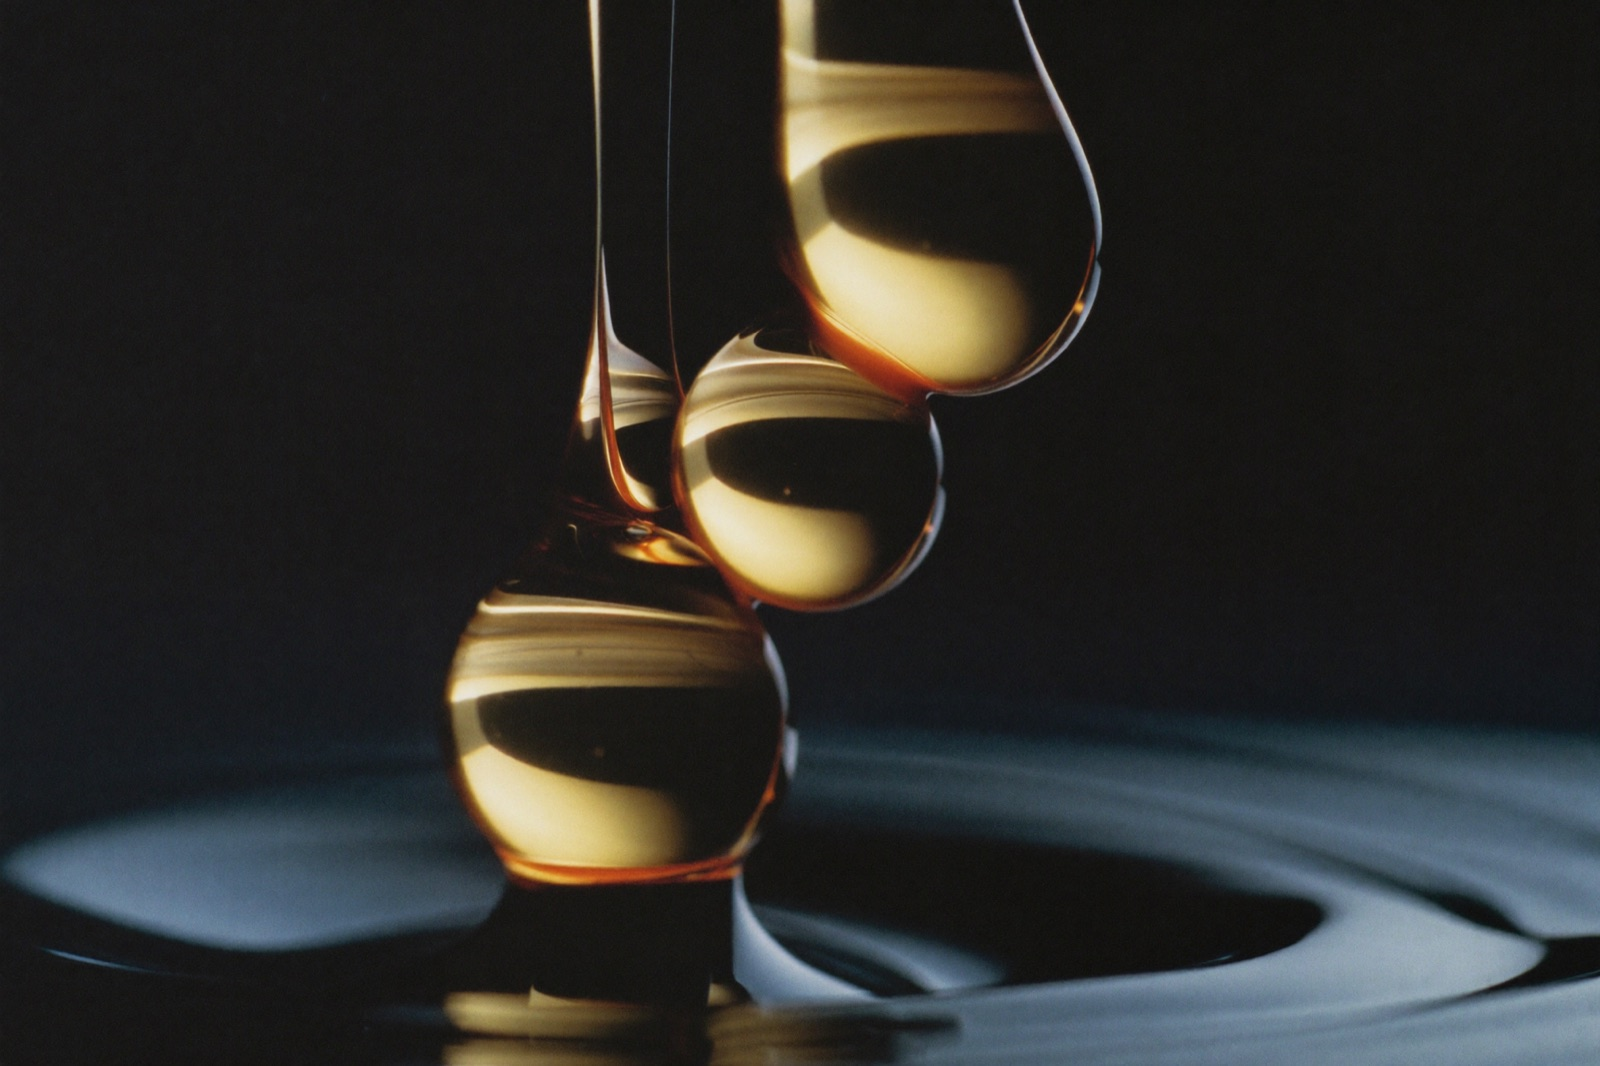
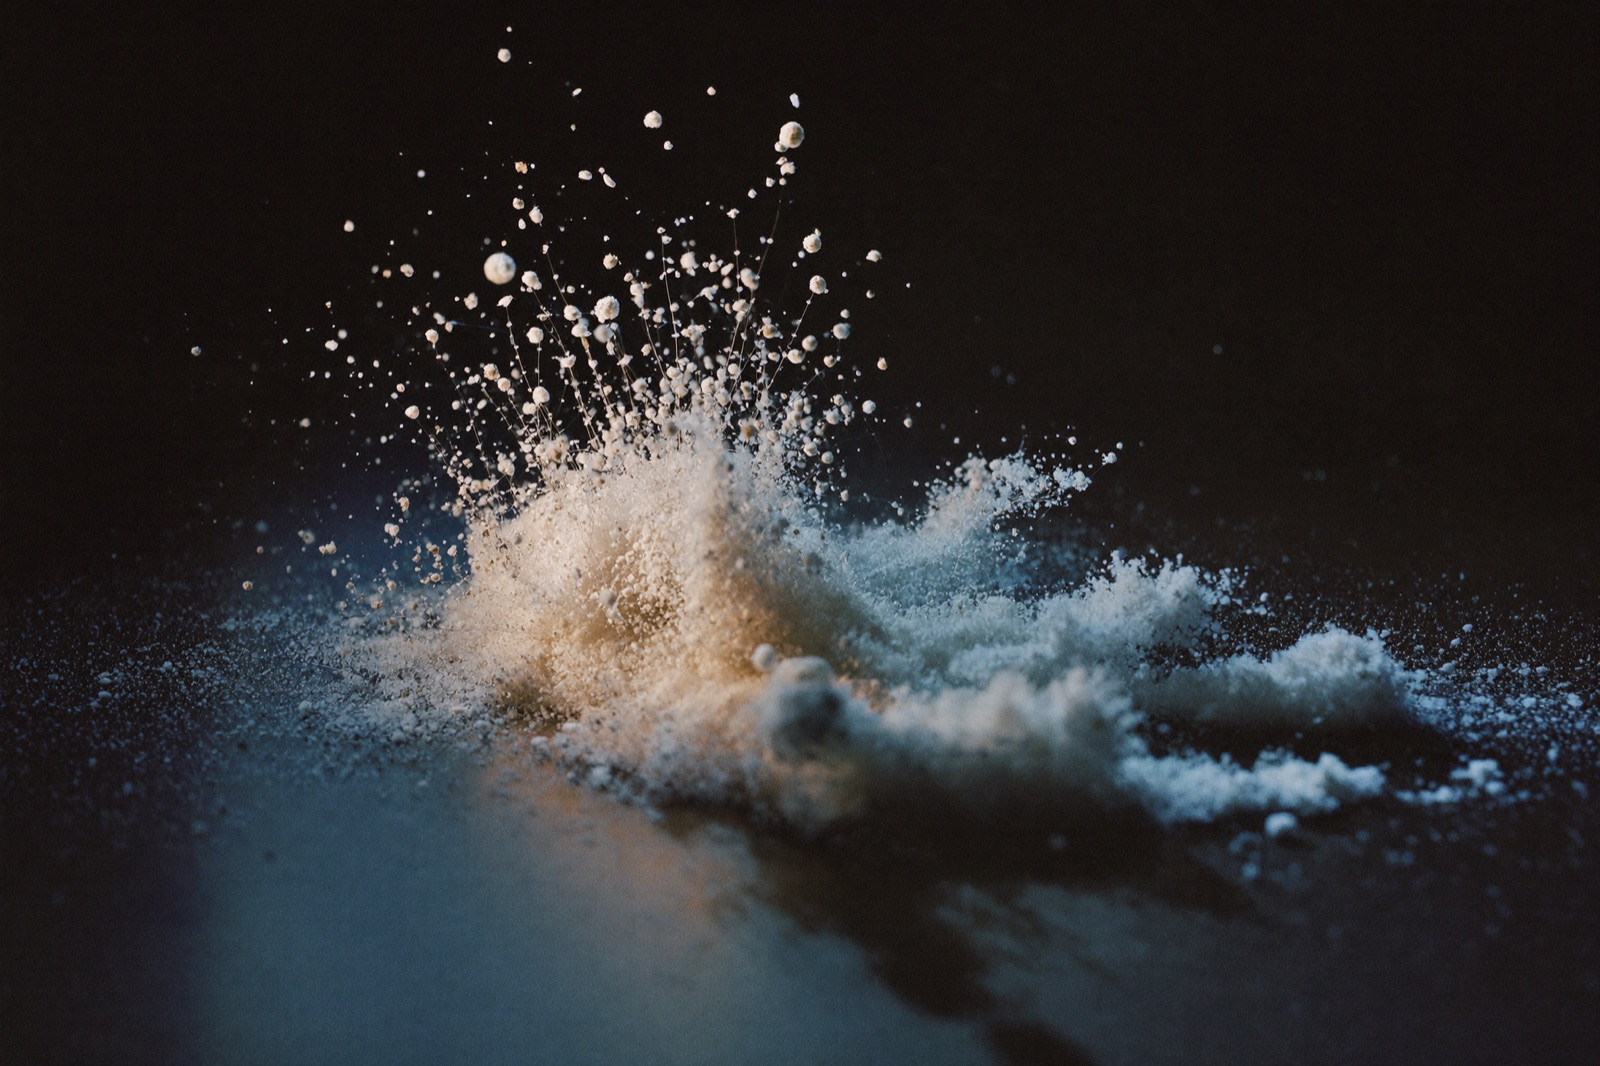
Protocol grid: all nine textures generated, no stock left
Higgsfield Soul 2.0 macro textures for every pathway (weight, sexual,
recovery, longevity, skin, hair, bloods, performance) replace the
temporary stock and duplicate fallbacks. Adds a hero texture for later use.

diff --git a/components/ProtocolGrid.tsx b/components/ProtocolGrid.tsx
@@ -38,14 +38,14 @@ export type Protocol = {
 
 export const PROTOCOLS: Protocol[] = [
   { id: 'hormone',     col: 1, code: 'APX-01', label: 'Hormone Optimisation',       sub: 'Energy · Drive · Recovery',          href: '/programs/hormone-optimisation',  image: '/protocols/hormone.jpg',     swatch: '#c9962a', tag: 'Most chosen' },
-  { id: 'weight',      col: 2, code: 'APX-02', label: 'Medical Weight Loss',        sub: 'Doctor-led metabolic reset',         href: '/programs/metabolic-weight-loss', image: 'https://images.unsplash.com/photo-1534438327276-14e5300c3a48?auto=format&fit=crop&w=1200&q=85' /* TODO swap for /protocols/weight.jpg once generated */,      swatch: '#3b82f6' },
-  { id: 'sexual',      col: 3, code: 'APX-03', label: 'Sexual Health',              sub: 'Private · Confidential · Discreet',  href: '/programs/sexual-health',         image: 'https://images.unsplash.com/photo-1633167606207-d840b5070fc2?auto=format&fit=crop&w=1200&q=85' /* TODO swap for /protocols/sexual.jpg once generated */,      swatch: '#9f1239' },
-  { id: 'recovery',    col: 1, code: 'APX-04', label: 'Recovery and Injury Repair', sub: 'Performance · Rehab · Mobility',     href: '/programs/injury-repair',         image: 'https://images.unsplash.com/photo-1590487988256-9ed24133863e?auto=format&fit=crop&w=1200&q=85' /* TODO swap for /protocols/recovery.jpg once generated */,    swatch: '#475569' },
-  { id: 'longevity',   col: 2, code: 'APX-05', label: 'Anti-Ageing and Longevity',  sub: 'Healthspan · Vitality · Prevention', href: '/programs/longevity',             image: 'https://images.unsplash.com/photo-1677212004257-103cfa6b59d0?auto=format&fit=crop&w=1200&q=85' /* TODO swap for /protocols/longevity.jpg once generated */,   swatch: '#8b5cf6', tag: 'New' },
-  { id: 'skin',        col: 3, code: 'APX-06', label: 'Skin Regeneration',          sub: 'Cortisol · DHEA-S · Inflammation',   href: '/programs/skin-regeneration',     image: 'https://images.unsplash.com/photo-1781178339148-d6ac1edb7b8f?auto=format&fit=crop&w=1200&q=85' /* TODO swap for /protocols/skin.jpg once generated */,        swatch: '#d4a5a5' },
-  { id: 'hair',        col: 3, code: 'APX-07', label: 'Hair Restoration',           sub: 'DHT · SHBG · Ferritin · Thyroid',    href: '/programs/hair-restoration',      image: '/img-hair-restoration.png' /* TODO swap for /protocols/hair.jpg once generated */,        swatch: '#0f766e' },
-  { id: 'performance', col: 1, code: 'APX-08', label: 'Performance Plus',           sub: 'Output · Recovery · Composition',    href: '/programs/performance-plus',      image: '/protocols/performance.jpg' /* TODO temporary: hormone variant 2 until the performance texture is generated */, swatch: '#e2e8f0' },
-  { id: 'bloods',      col: 2, code: 'APX-09', label: 'Comprehensive Blood Tests',  sub: 'Full panel · Doctor reviewed',       href: '/programs/pathology',             image: 'https://images.unsplash.com/photo-1570917013020-a6966d3ee863?auto=format&fit=crop&w=1200&q=85' /* TODO swap for /protocols/bloods.jpg once generated */,      swatch: '#b91c1c' },
+  { id: 'weight',      col: 2, code: 'APX-02', label: 'Medical Weight Loss',        sub: 'Doctor-led metabolic reset',         href: '/programs/metabolic-weight-loss', image: '/protocols/weight.jpg',      swatch: '#3b82f6' },
+  { id: 'sexual',      col: 3, code: 'APX-03', label: 'Sexual Health',              sub: 'Private · Confidential · Discreet',  href: '/programs/sexual-health',         image: '/protocols/sexual.jpg',      swatch: '#9f1239' },
+  { id: 'recovery',    col: 1, code: 'APX-04', label: 'Recovery and Injury Repair', sub: 'Performance · Rehab · Mobility',     href: '/programs/injury-repair',         image: '/protocols/recovery.jpg',    swatch: '#475569' },
+  { id: 'longevity',   col: 2, code: 'APX-05', label: 'Anti-Ageing and Longevity',  sub: 'Healthspan · Vitality · Prevention', href: '/programs/longevity',             image: '/protocols/longevity.jpg',   swatch: '#8b5cf6', tag: 'New' },
+  { id: 'skin',        col: 3, code: 'APX-06', label: 'Skin Regeneration',          sub: 'Cortisol · DHEA-S · Inflammation',   href: '/programs/skin-regeneration',     image: '/protocols/skin.jpg',        swatch: '#d4a5a5' },
+  { id: 'hair',        col: 3, code: 'APX-07', label: 'Hair Restoration',           sub: 'DHT · SHBG · Ferritin · Thyroid',    href: '/programs/hair-restoration',      image: '/protocols/hair.jpg',        swatch: '#0f766e' },
+  { id: 'performance', col: 1, code: 'APX-08', label: 'Performance Plus',           sub: 'Output · Recovery · Composition',    href: '/programs/performance-plus',      image: '/protocols/performance.jpg', swatch: '#e2e8f0' },
+  { id: 'bloods',      col: 2, code: 'APX-09', label: 'Comprehensive Blood Tests',  sub: 'Full panel · Doctor reviewed',       href: '/programs/pathology',             image: '/protocols/bloods.jpg',      swatch: '#b91c1c' },
 ]
 
 const REST_FEATURED = new Set(['hormone', 'longevity'])
